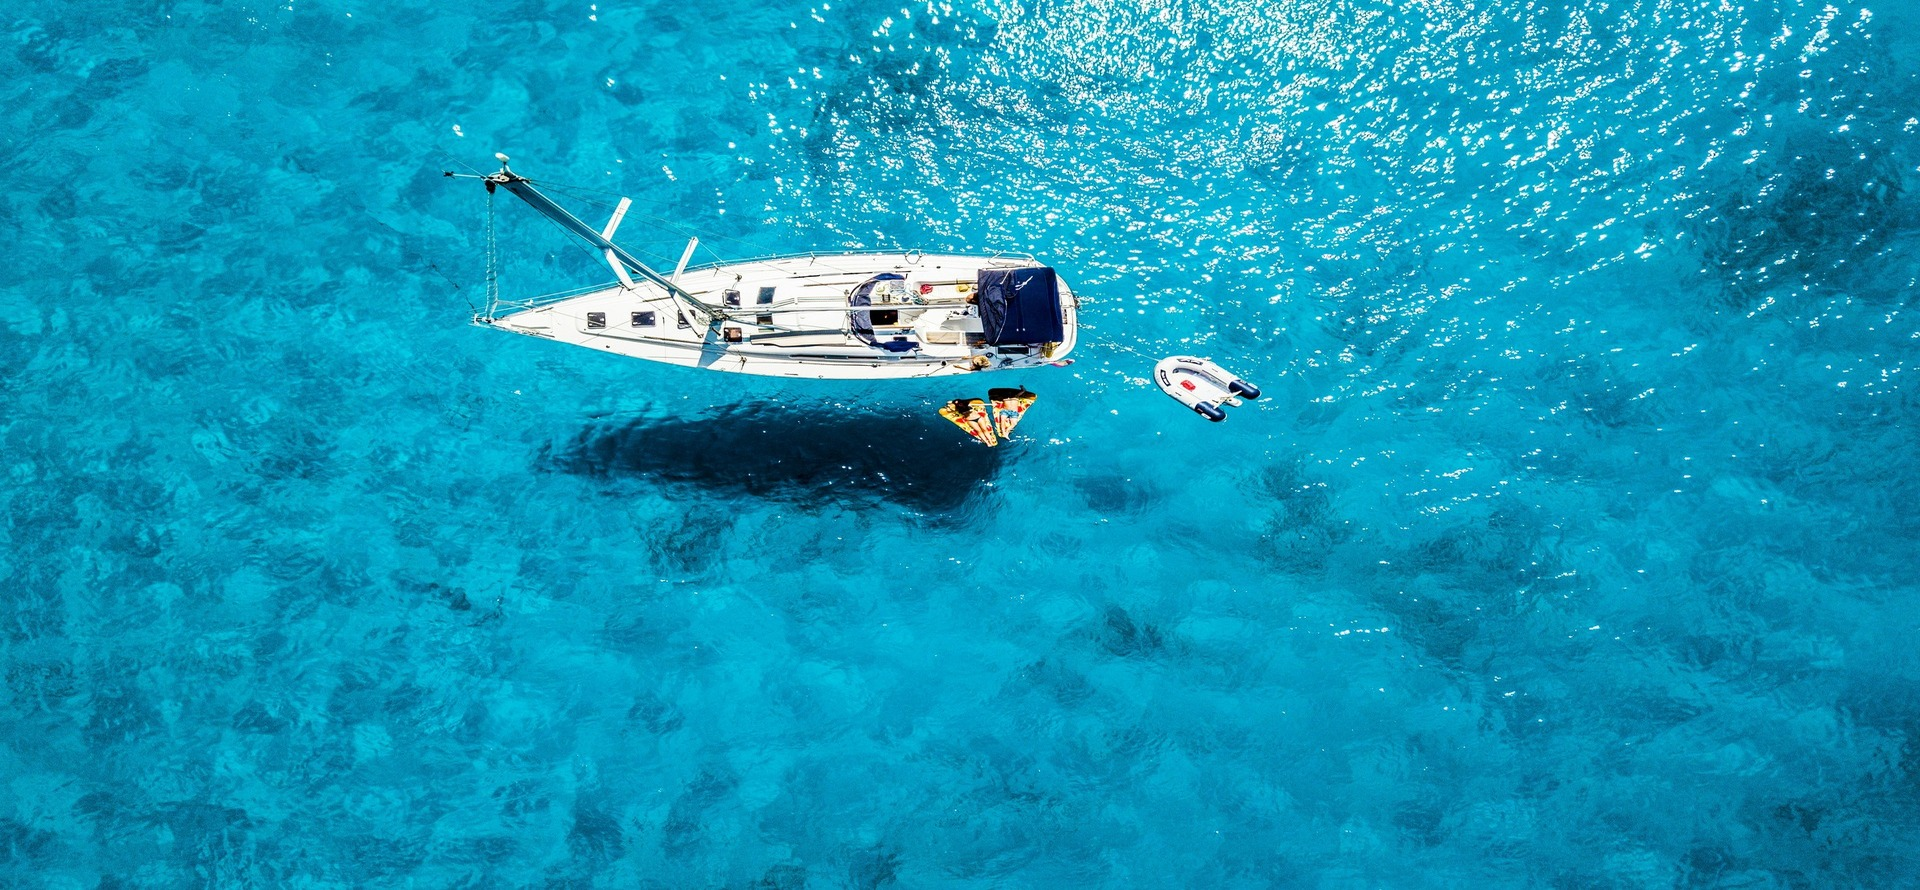
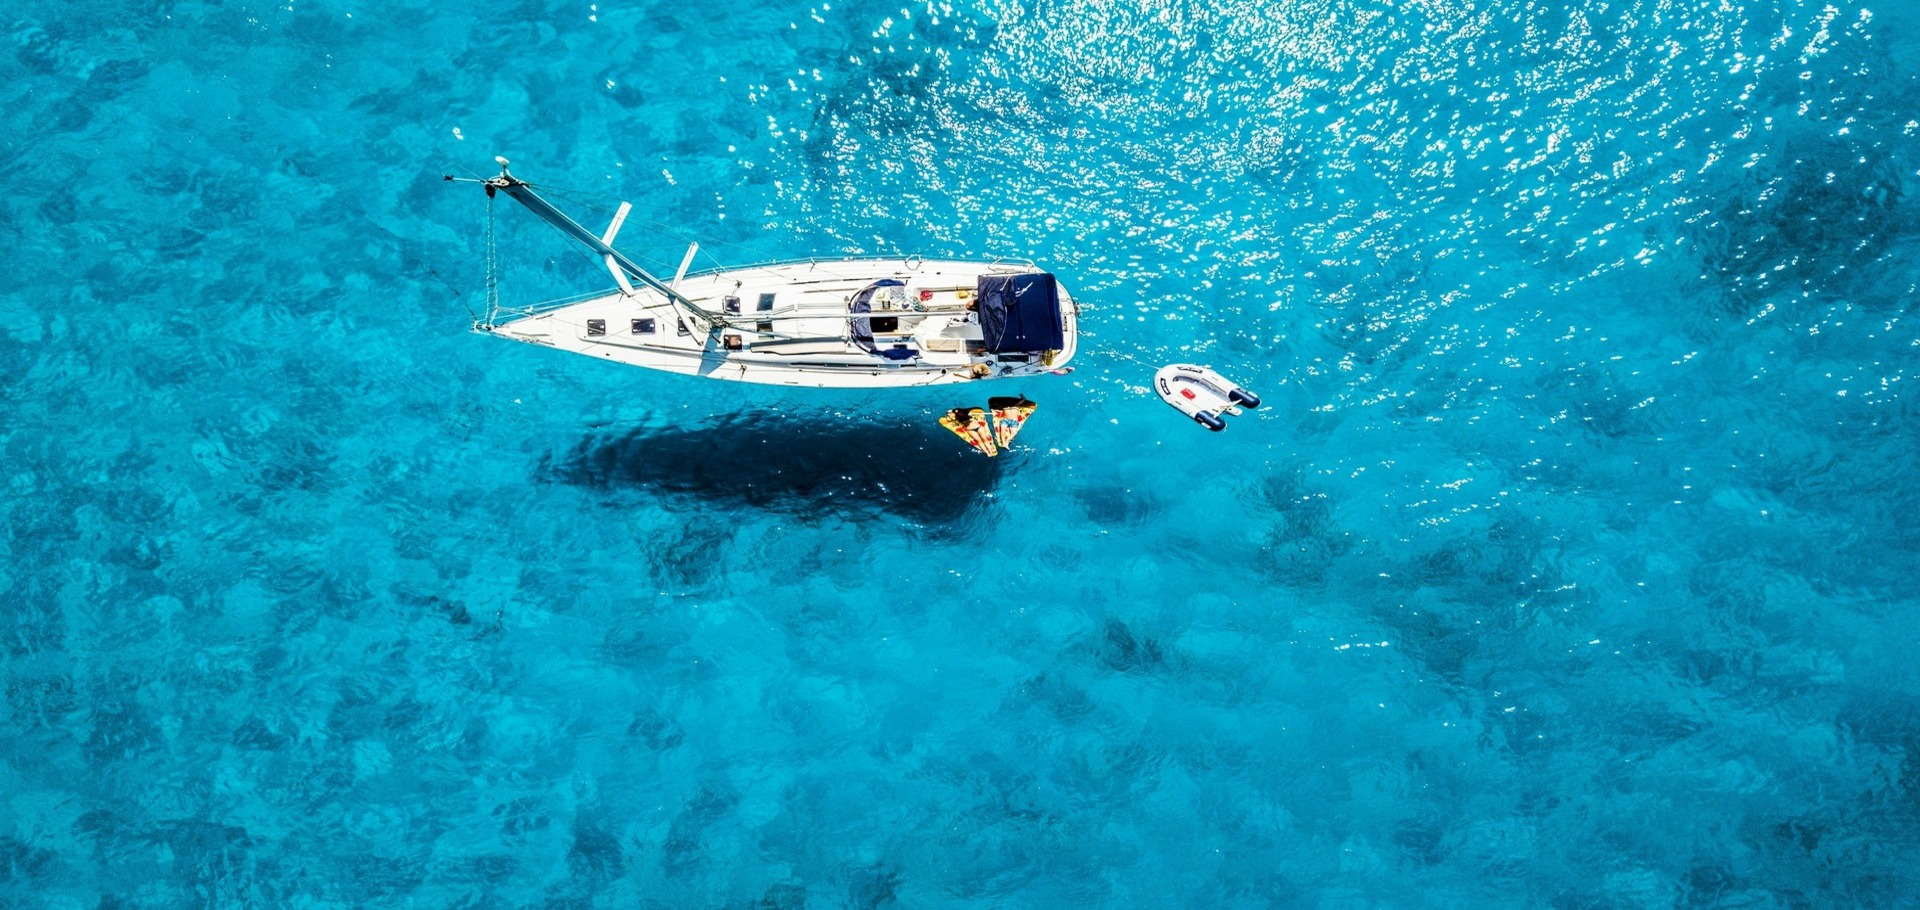
Tog bort knapparna vid korten, gjorde bilden större, såg till så att nav bar var genomskinlig och över carousellen. Tog bort IntersectionObserver

diff --git a/about.html b/about.html
@@ -10,7 +10,7 @@
 </head>
 <body>
     <script src="https://cdn.jsdelivr.net/npm/bootstrap@5.3.3/dist/js/bootstrap.bundle.min.js" integrity="sha384-YvpcrYf0tY3lHB60NNkmXc5s9fDVZLESaAA55NDzOxhy9GkcIdslK1eN7N6jIeHz" crossorigin="anonymous"></script>
-    <div id="headerContainer">
+    <div id="headercontainer">
         <header>
             <nav>
               <ul class="mobile-nav">
@@ -27,10 +27,10 @@
             <div id="carouselExample" class="carousel slide">
                 <div class="carousel-inner">
                   <div class="carousel-item active">
-                    <img src="img/BåtSlide2.jpg" class="d-block w-100" alt="...">
+                    <img src="img/BåtSlide1.jpg" class="d-block w-100" alt="...">
                   </div>
                   <div class="carousel-item">
-                    <img src="img/BåtSlide1.jpg" class="d-block w-100" alt="...">
+                    <img src="img/BåtSlide2.jpg" class="d-block w-100" alt="...">
                   </div>
                   <div class="carousel-item">
                     <img src="img/BåtSlide3.jpg" class="d-block w-100" alt="...">
@@ -48,7 +48,7 @@
             <h1>About Us</h1>
         </header>
     </div>
-    <div id="articleContainer" class="hidden">
+    <div id="articlecontainer">
         <article>
             <h2>Our History</h2>
                 <p>
@@ -89,14 +89,13 @@
             </p>
         </article>
     </div>
-    <div id="cardContainer" class="row">
+    <div id="cardcontainer" class="row">
         <div class="col-sm-4">
             <div class="card">
                 <img src="img/ollesailor.jpg" class="card-img-top" alt="...">
                 <div class="card-body">
                     <h5 class="card-title">Olle Gordon</h5>
                     <p class="card-text">Olle Gordon, a seasoned sailor that sailed all the worlds seas since he was barely ten years old.</p>
-                    <a href="#" class="btn btn-primary">Go somewhere</a>
                 </div>
             </div>
         </div>
@@ -106,7 +105,6 @@
                 <div class="card-body">
                     <h5 class="card-title">John Fredrik Maximilian Schürer von Waldheim</h5>
                     <p class="card-text">John Fredrik Maximilian Schürer von Waldheim, a skilled businessman who knew what people wanted and when.</p>
-                    <a href="#" class="btn btn-primary">Go somewhere</a>
                 </div>
             </div>
         </div>
@@ -116,14 +114,15 @@
                 <div class="card-body">
                     <h5 class="card-title">Telly Lange</h5>
                     <p class="card-text">Telly Lange, an established salesman with a special gift to make people buy things they never knew they needed.</p>
-                    <a href="#" class="btn btn-primary">Go somewhere</a>
                 </div>
             </div>
         </div>
     </div>
+
+
     <blockquote cite="https://www.goodreads.com/quotes">"Be yourself, everyone else is already taken." - Oscar Wilde</blockquote>  
-    <div id="footerContainer">
-        <footer>Ⓒ2023 Boats Inc., Olle Gordon, John Fredrik Maximilian Schürer von Waldheim and Telly Lange
+    <div id="footercontainer">
+        <footer>Ⓒ2023 Boats Inc. Olle Gordon, John Fredrik Maximilian Schürer von Waldheim and Telly Lange
             <a href="mailto:telly.lange@gmail.com">support@boats.com</a></p>
         </footer>
     </div>

diff --git a/style.css b/style.css
@@ -4,13 +4,14 @@
   padding: 0;
 }
 
-
 /*Nav*/
-nav{
+
+nav {
   display: flex;
   justify-content: center;
   align-items: center;
 }
+
 .nav-ul {
   display: flex;
   position: absolute;
@@ -53,6 +54,32 @@ nav{
 
 .mobile-nav {
   display: none;
+}
+
+/*Header*/
+
+#headercontainer {
+  text-align: center;
+}
+
+/*Article*/
+
+#articlecontainer {
+  text-align: center;
+  padding: 2rem;
+  max-width: 100%;
+  margin: 0;
+}
+
+/*Card*/
+
+.card {
+  margin-bottom: 20px;
+}
+
+#cardcontainer {
+  display: flex;
+  max-width: 100%;
 }
 
 /*Mobile Nav*/
@@ -103,28 +130,7 @@ nav{
   .nav-ul li a {
     display: none;
   }
-}
 
-#headerContainer {
-  text-align: center;
-}
-
-/*Article*/
-
-#articleContainer {
-  text-align: center;
-  padding: 2rem;
-  max-width: 100%;
-  margin: 0;
-}
-
-/*Card*/
-
-.card {
-  margin-bottom: 20px;
-}
-
-@media (max-width: 768px) {
   #cardContainer {
     flex-direction: column;
   }
@@ -133,65 +139,4 @@ nav{
     flex-basis: 100%;
     margin-bottom: 10px;
   }
-}
-
-/* .section-title {
-  font-size: 24px;
-  font-weight: bold;
-  margin-bottom: 10px;
-}
-
-.paragraph {
-  text-align: left;
-  margin-bottom: 20px;
-  line-height: 1.5;
-}
-
-.founder-card {
-  display: flex;
-  flex-wrap: wrap;
-  justify-content: space-between;
-  margin-bottom: 20px;
-}
-
-.founder {
-  flex-basis: calc(33.33% - 10px); 
-  background-color: #f9f9f9;
-  padding: 15px;
-  border-radius: 5px;
-}
-
-.founder-name {
-  font-size: 18px;
-  font-weight: bold;
-}
-
-.founder-description {
-  margin-top: 5px;
-}
-
-@media (max-width: 768px) {
-  .founder-card {
-    flex-direction: column;
-  }
-  
-  .founder {
-    flex-basis: 100%;
-    margin-bottom: 10px;
-  }
-} */
-
-
-/* -------Test---- */
-
-.hidden{
-  opacity: 0;
-  transition: all 1s;
-  transform: translateY(100%);
-}
-
-
-.show{
-opacity: 1;
-transform: translateY(0);
 }
